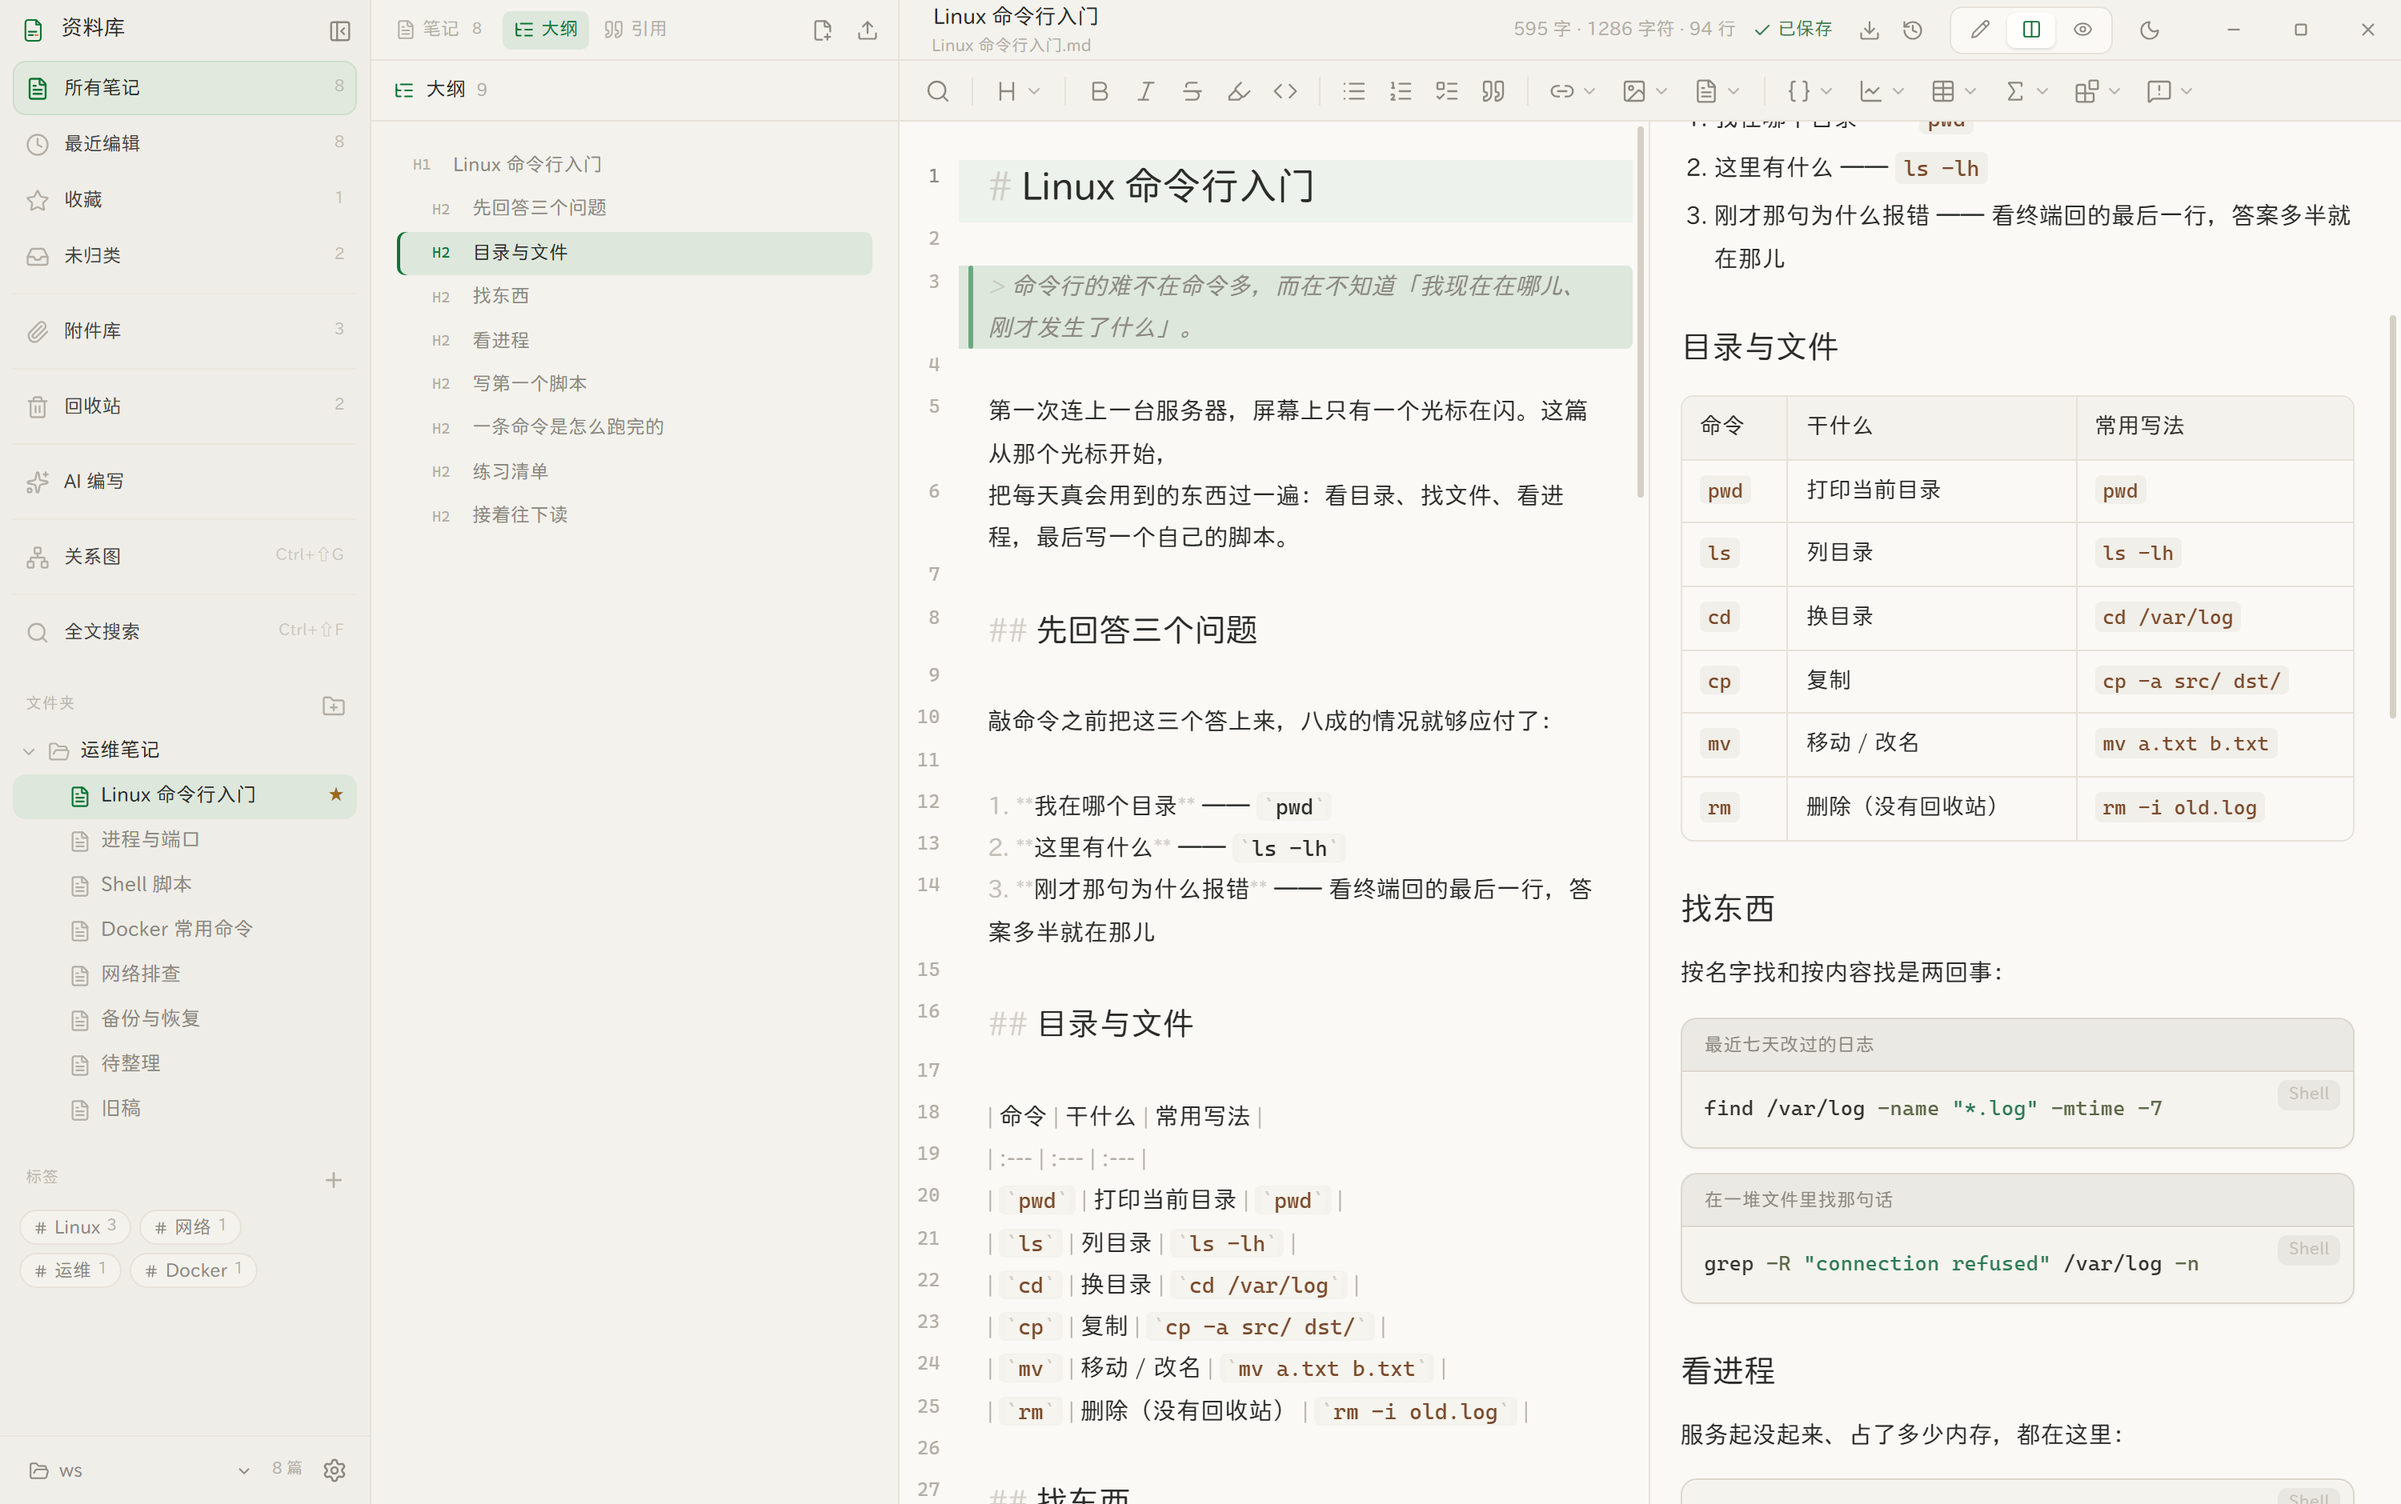
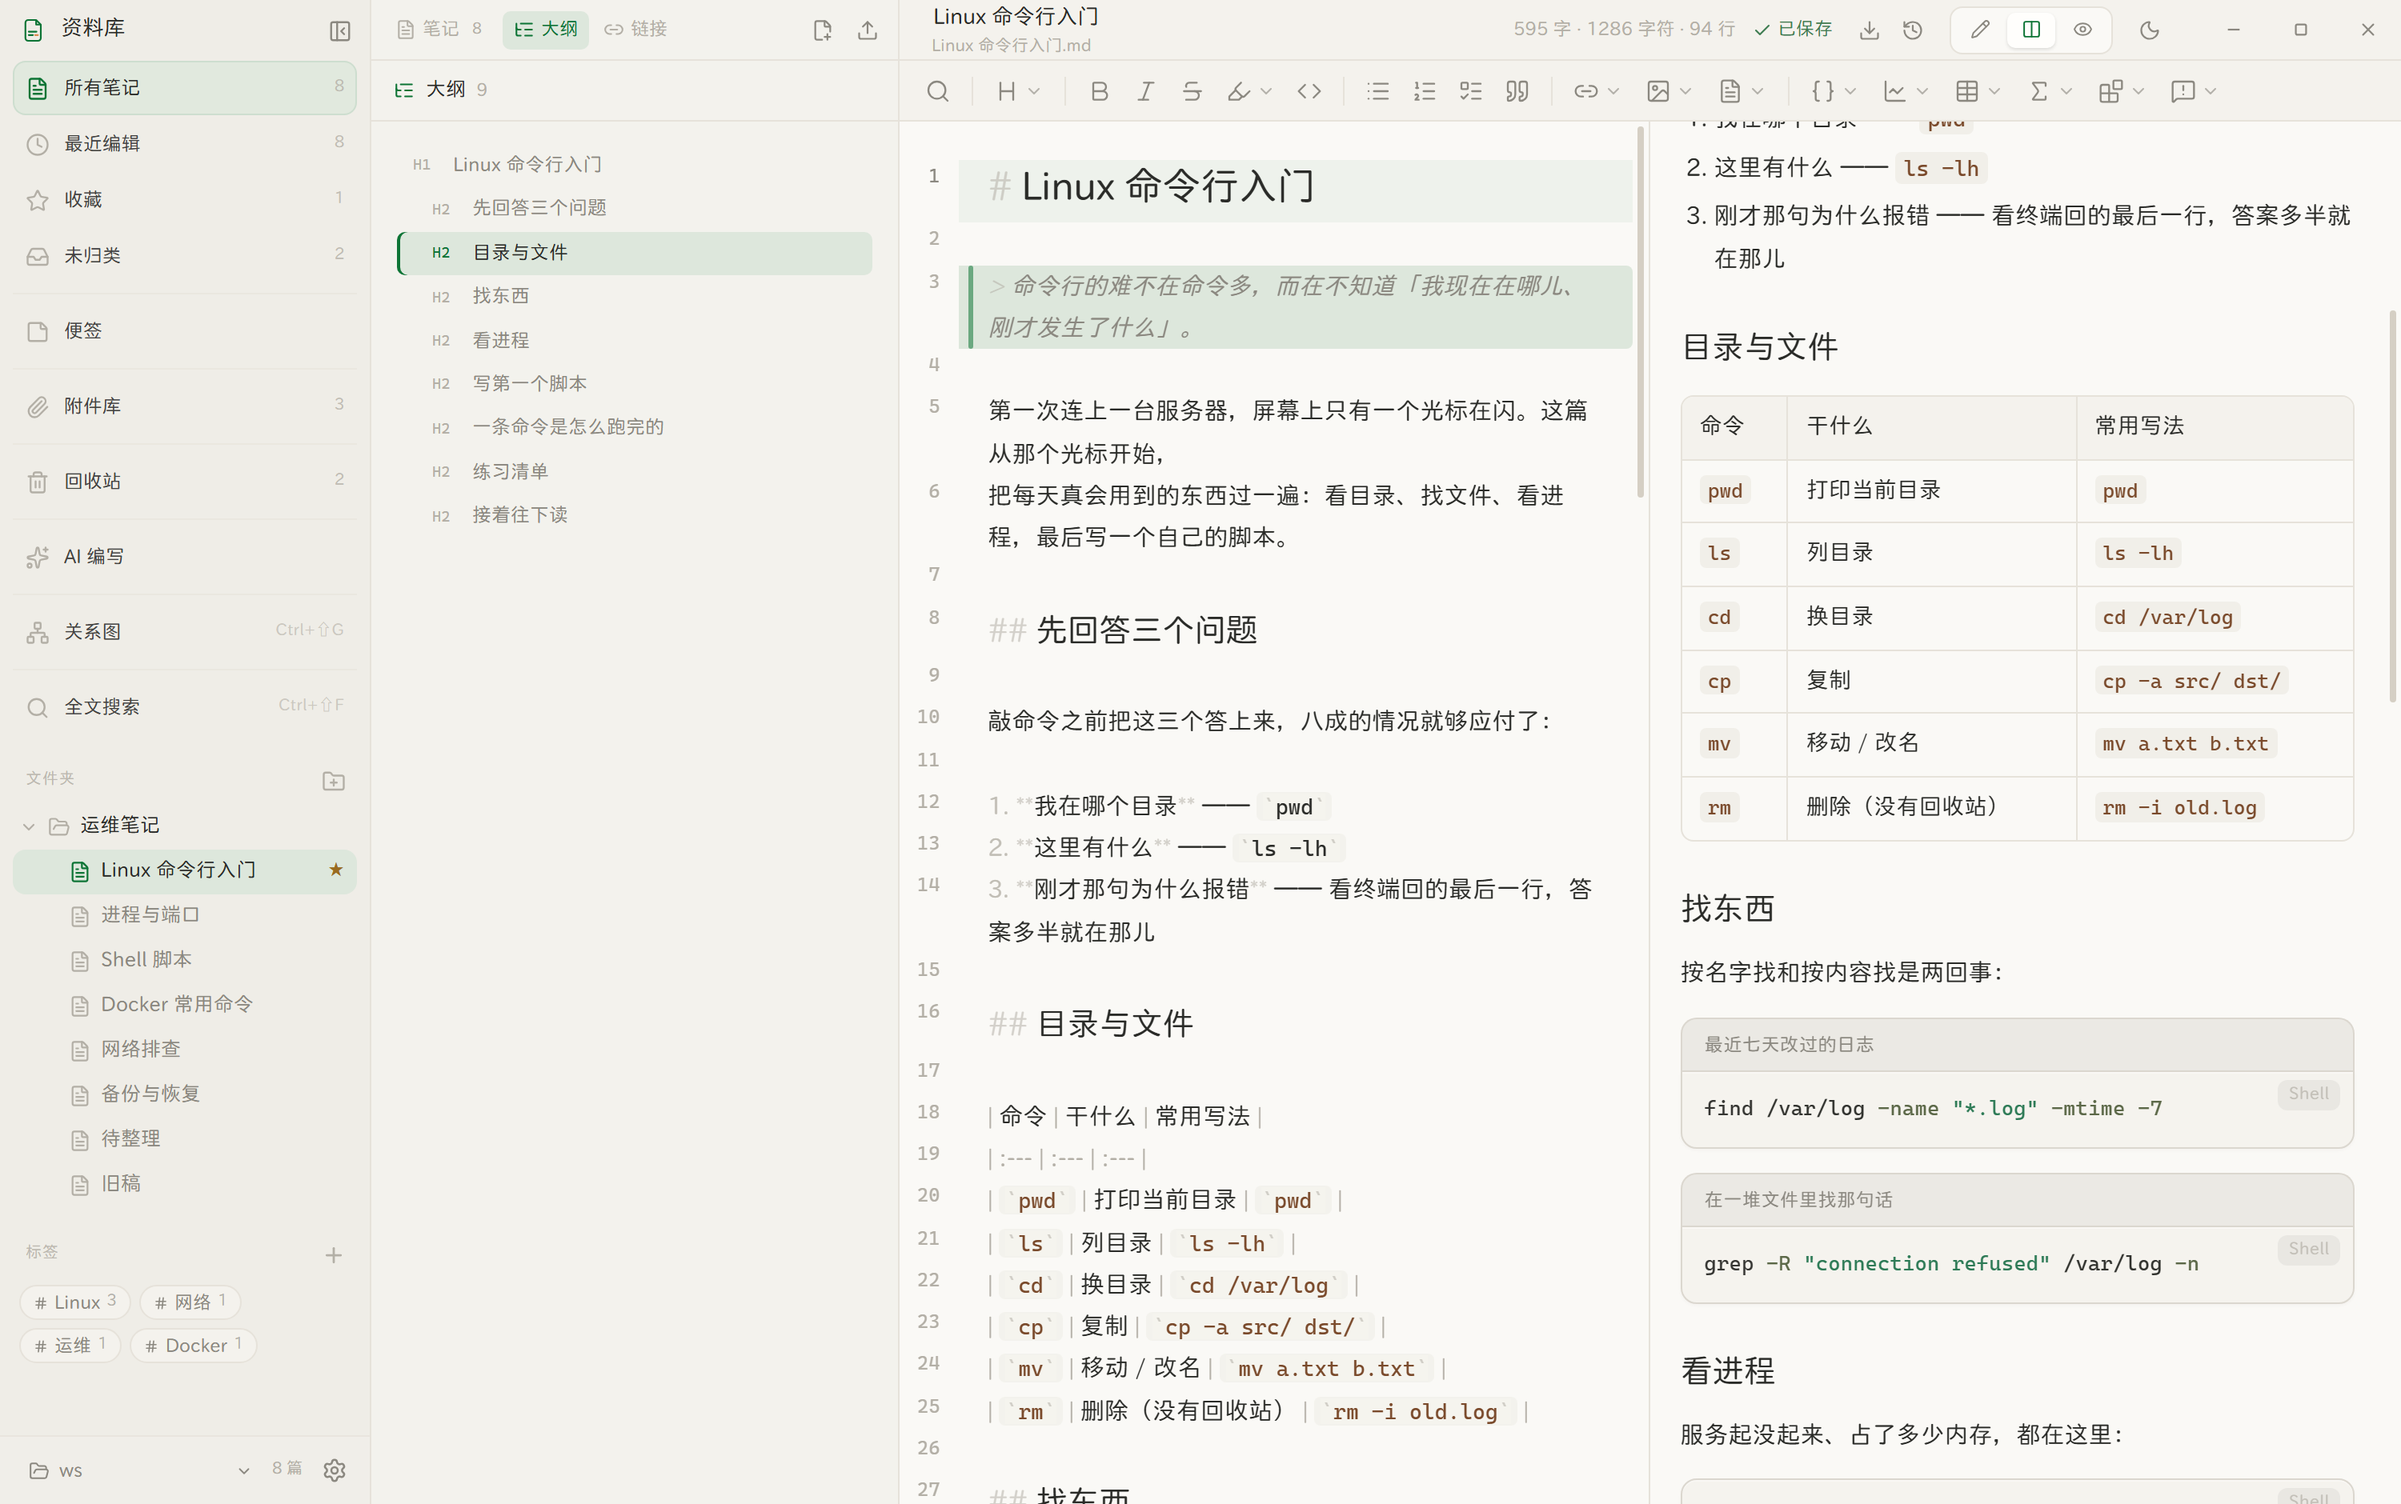
官网截图重拍到 2.10：页签已叫「链接」、侧栏是「AI 编写」
旧图拍在 10-24，还是 2.8 的界面：第三栏写着「引用」、侧栏写着「AI 写作」，
2.9 改名之后一直没重拍，官网却写着「每一张都是真实界面截图」。
这次用 scripts/site-shots.mjs 重出六张，连同首屏那张一起换掉。

顺带三处：
- 官网那句「「引用」页签」跟着改成「链接」，并把两段（谁提到我 / 我提到谁）说清
- README 引用的 shots/callouts.png 根本不存在，GitHub 上是破图，换成 article.png
- 顶栏 logo 是米白底、导航胶囊也是米白，26px 下糊成一片；补一道 1px 描边

diff --git a/site/index.html b/site/index.html
@@ -76,7 +76,7 @@ kbd{
 }
 .nav.scrolled .nav-in{box-shadow:0 10px 40px -16px rgb(50 45 32 / .5)}
 .brand{display:flex;align-items:center;gap:9px;font-weight:700;font-size:16.5px;color:var(--ink)}
-.brand img{width:26px;height:26px;border-radius:7px}
+.brand img{width:26px;height:26px;border-radius:7px;box-shadow:0 0 0 1px rgb(50 45 32 / .16)}
 .nav-links{display:flex;gap:4px;margin-left:auto;align-items:center}
 .nav-links a{
   color:var(--ink-2);font-size:14px;padding:7px 13px;border-radius:999px;
@@ -523,7 +523,7 @@ kbd{
         <ul>
           <li><svg viewBox="0 0 24 24"><path d="m4 12 5 5L20 7"/></svg>结果分两段：先标题后正文</li>
           <li><svg viewBox="0 0 24 24"><path d="m4 12 5 5L20 7"/></svg>↑↓ 选择、Enter 打开，全程不碰鼠标</li>
-          <li><svg viewBox="0 0 24 24"><path d="m4 12 5 5L20 7"/></svg>「引用」页签反过来告诉你谁提到了这篇</li>
+          <li><svg viewBox="0 0 24 24"><path d="m4 12 5 5L20 7"/></svg>「链接」页签两段并排：谁提到了这篇、这篇又提到了谁</li>
         </ul>
       </div>
       <div class="show-shot rv" style="transition-delay:.1s">

diff --git a/promo/moments-2.10.0.md b/promo/moments-2.10.0.md
@@ -1,0 +1,61 @@
+# Nota 2.10.0 朋友圈文案
+
+## 主推（口语版，通用受众）
+
+写了个 Windows 笔记软件，叫 Nota。
+
+只做一件事：笔记就是硬盘上的 .md 文件。不联网、不上传、不要账号，断网照样写。
+哪天不想要了，文件还在文件夹里躺着，扔进任何编辑器都能打开。
+
+这版把最常用的那个小东西收尾了：任何程序里按 `Alt+N`，屏幕角落弹一张纸，
+想到什么直接写，`Esc` 收起来。连按连开，攒够一句按一下存进笔记库，
+纸自己折进抽屉，手滑了还有一步撤销。
+
+免费、开源、68 MB，Windows 10 / 11：
+ymtj.hyper99.top
+
+（双击之后十几秒没出窗口不是卡住了，Windows 正在扫这个没签名证书的包。）
+
+---
+
+## 备选一（同行版，技术向）
+
+Nota 2.10 发了。这次没加功能，修的全是「用起来觉得别扭但说不上来」的地方。
+
+在预览里勾一下待办，以前整篇会重排一次——那条列表被拆掉重建，视觉上抖一下，
+中间还闪出一道删除线。查下去发现它还勾错了行：预览和编辑器各数了一遍
+「这是第几个待办」，但引用的待办漏数、注释里的多数，序号整体错开。
+现在两边数的是同一批行，勾完 DOM 节点还是原来那个，Ctrl+Z 预览也跟着退了。
+
+另一处是便签页：左边多选，右边那面墙毫无反应。现在墙上每张卡右上角一个圈，
+选中描边，顶上写「已选 3 / 12」。顺手把「选中状态存哪」合成了一份，
+不再是清单和墙各捏一份。
+
+纯本地 .md、不要账号、MIT。ymtj.hyper99.top
+
+---
+
+## 备选二（一句话）
+
+笔记的文件应该属于你，而不是属于某个网站。Nota 2.10，本地 .md、不要账号、免费开源：
+ymtj.hyper99.top
+
+---
+
+## 配图建议
+
+1. `promo/cover-43.png` —— 4:3 封面，九宫格第一张正好
+2. `site/shots/hero.png` —— 分栏视图（左边源码、右边渲染）
+3. `site/shots/article.png` —— 阅读模式的排版
+4. `site/shots/dark.png` —— 深色主题
+5. `site/shots/graph.png` —— 关系图
+
+便签那张（弹窗纸、便签墙）目前没有现成截图，想放就自己开一张 `Alt+N` 截，
+比任何示意图都可信。
+
+## 发之前检查
+
+- 手机上点一次链接，确认 `https://ymtj.hyper99.top` 能打开、能下载
+- 首行别超过 20 字，朋友圈折叠后只露两行
+- 正文不要堆功能列表，没人看说明书
+- 配图用真截图，别用渲染图 —— 产品和图上不一致，一眼就能看出来

diff --git a/README.md b/README.md
@@ -41,9 +41,9 @@
 
 ![分栏视图](./site/shots/hero.png)
 
-提示块与图表：
+阅读模式下的排版（表格、代码块、脚注）：
 
-![提示块与图表](./site/shots/callouts.png)
+![阅读模式的排版](./site/shots/article.png)
 
 关系图：
 
